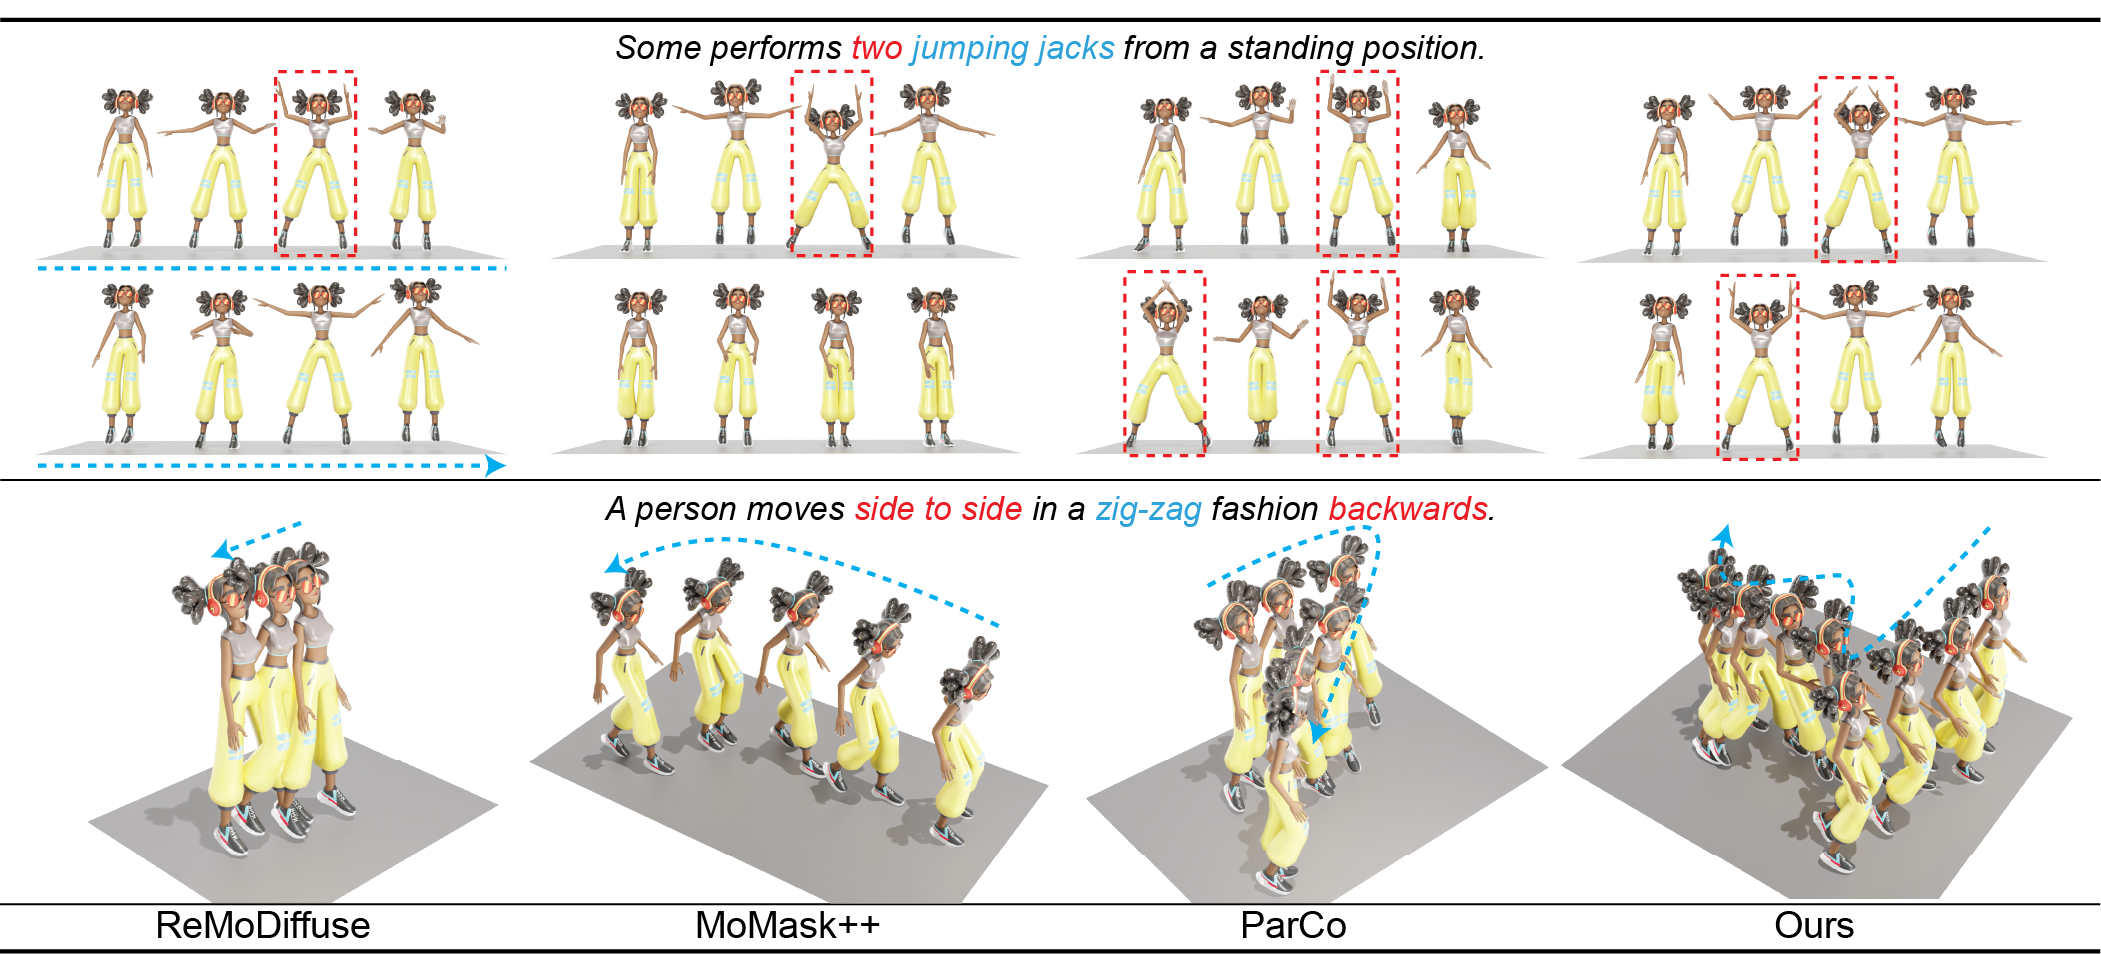
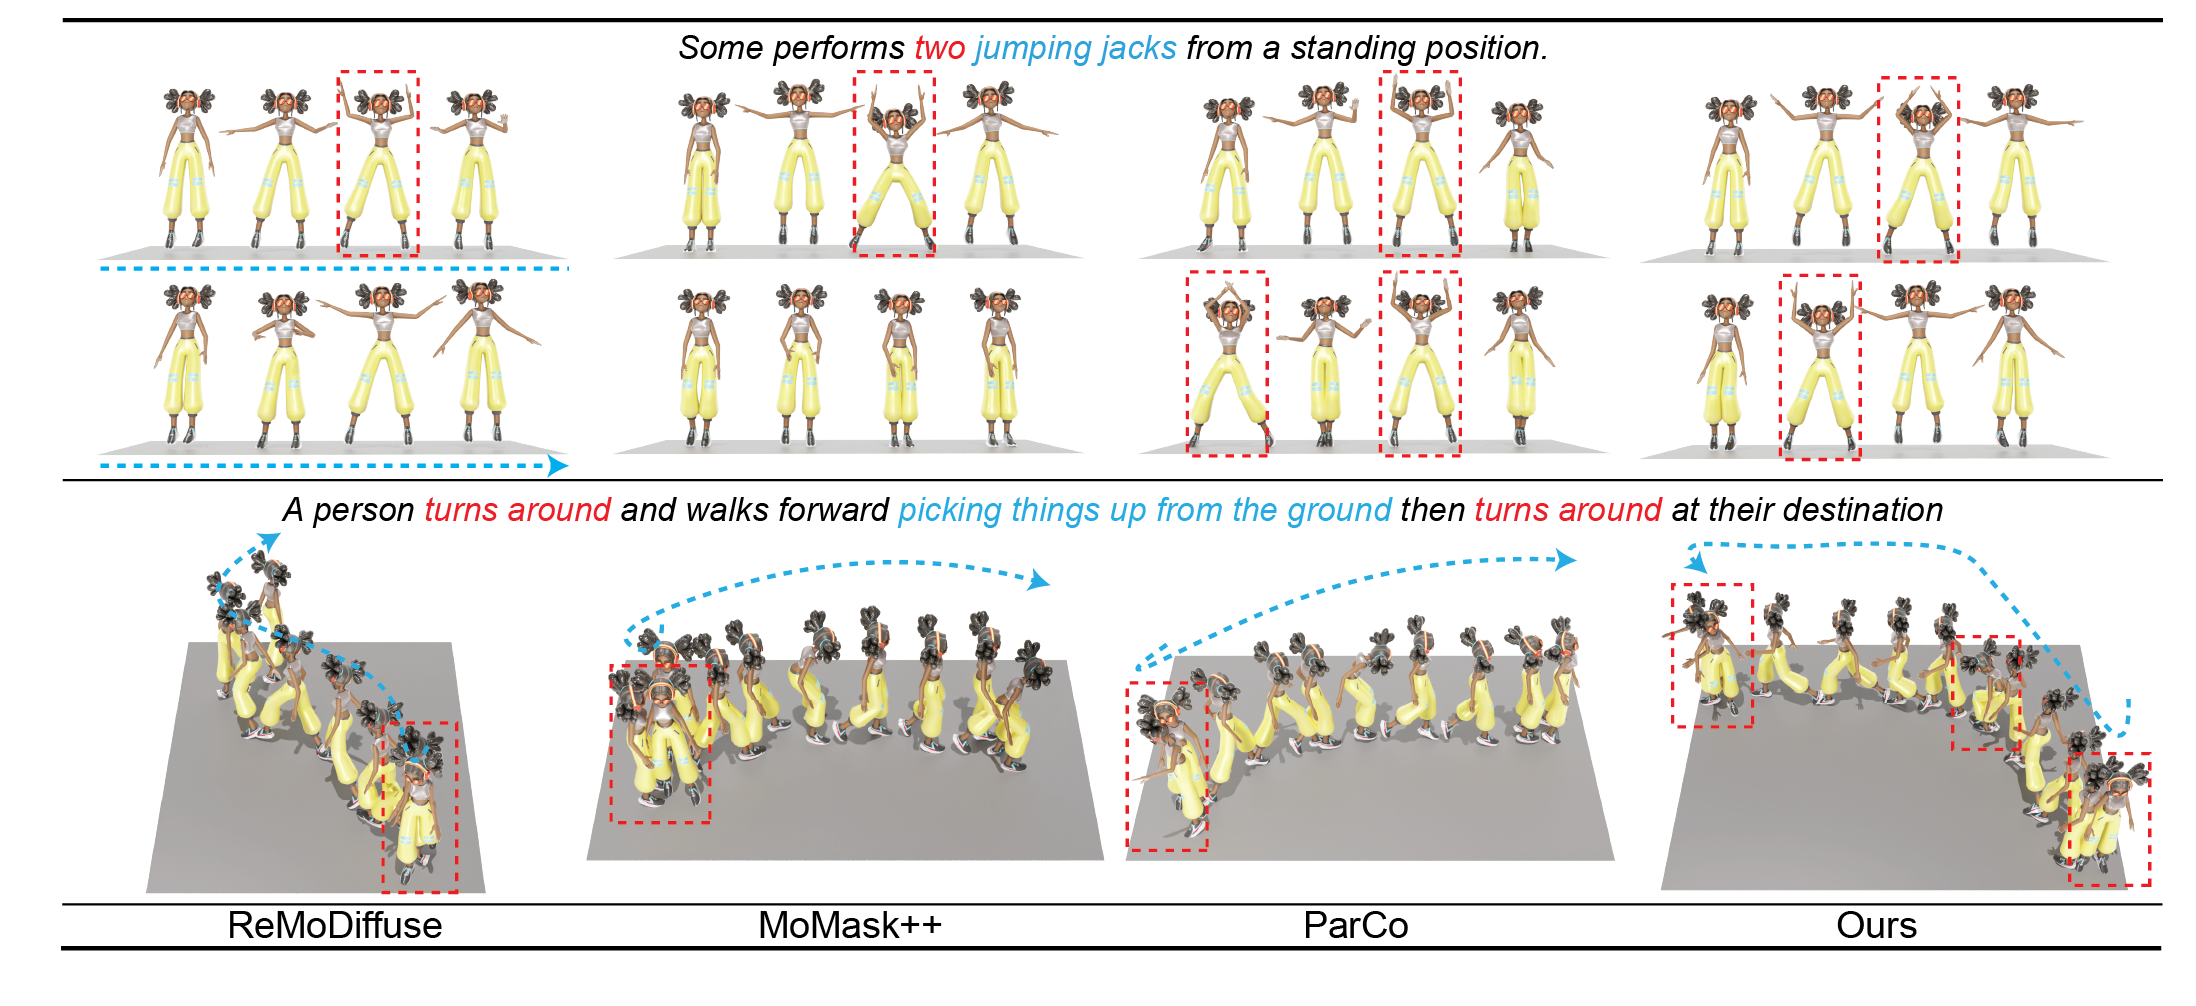
update moscale

diff --git a/MoScale/index.html b/MoScale/index.html
@@ -102,13 +102,11 @@
   <div class="container is-max-desktop">
     <div class="hero-body">
       <img id="teaser"
-     src="./static/images/method.png"
+     src="./static/images/teaser-latest-web.png"
      alt="teaser figure"
      style="max-width: 100%; width: 100%; height:auto; display:block; position:relative; left:50%; transform:translateX(-50%);">
-      <!-- <h2>
-        MoScale accurately captures global semantic structure in text descriptions, such as two jumping jacks and backward zigzag, where prior diffusion(ReMoDiffuse), masked-transformer(MoMask++), and next-token autoregressive models(ParCo) fail.
-        Its next-scale autoregressive design with hierarchical causality enables MoScale to preserve these long-range semantics while maintaining realistic motion.
-      </h2> -->
+      <h2>
+        MoScale accurately captures global semantic structure in text descriptions, such as two jumping jacks and sequential actions including turn around, pick things up, and turn around, where prior methods fail to align. Our next-scale autoregressive design with hierarchical causality enables MoScale to preserve these long-range semantics while maintaining realistic motion.</h2>
     </div>
   </div>
 </section>
@@ -176,13 +174,9 @@
         </div>
 
         <div class="content has-text-justified">
-          <!-- <p>
-            Below, we present qualitative results for text-to-motion generation, including comparisons with prior methods,
-            as well as zero-shot conditional and unconditional motion inpainting, outpainting, editing, and continuous motion generation.
-          </p> -->
           <p>
             Below, we present qualitative results for text-to-motion generation, including comparisons with prior methods,
-            as well as zero-shot continuous motion generation.
+            as well as zero-shot conditional and unconditional motion inpainting, outpainting, editing, and continuous motion generation.
           </p>
           <p>
             Note: We follow the standard visualization pipeline, using the SMPL fitting pipeline in MLD [1], as adopted in other text-to-motion works.
@@ -437,13 +431,257 @@
         </div>
 
 
-        <!-- Zero-Shot Continuous Motion Generation -->
-        <h3 class="title is-4">Zero-Shot Continuous Motion Generation</h3>
+        <!-- Zero-Shot Conditional Motion In/Outpainting and Editing -->
+        <h3 class="title is-4">Zero-Shot Conditional Motion In/Outpainting and Editing</h3>
 
         <div class="content has-text-justified">
           <p>
-            We also demonstrate that MoScale can effectively perform zero-shot continuous motion generation by
-            autoregressively generating motion with progressively provided text descriptions.
+            We provide qualitative results for zero-shot text-conditioned motion inpainting, outpainting, and editing, including comparisons with MoMask and BAMM.
+            We highlight the painted/edited regions with <span class="gen-smpl-blue-new">blue</span> colors. To better compare with the original motion in the unedited regions,
+            we also render the original motion in <span class="gen-smpl-blue-new">blue</span> at the corresponding timestamps where edits/paintings are applied.
+            We use <span class="gen-smpl-orange">orange</span> to represent unedited regions.
+          </p>
+
+          <p>
+            Note: We follow prior work and represent the motion with a sequence of root (pelvis) velocities, while the remaining joints are encoded as their 3D positions in the root’s
+            local coordinate system. Under this representation, preserving the unedited regions means keeping the root velocity sequence and local joint positions identical in those frames.
+            As a result, the character exhibits the same motion pattern (how it moves and poses over time) in those segments,
+            even though its absolute global positions may change if earlier parts of the motion are changed.
+          </p>
+        </div>
+
+        <!-- Method names row -->
+        <div class="columns is-multiline is-centered">
+          <div class="column is-one-quarter">
+            <p class="method-name">Original Motion</p>
+          </div>
+          <div class="column is-one-quarter">
+            <p class="method-name">Ours</p>
+          </div>
+          <div class="column is-one-quarter">
+            <p class="method-name">BAMM</p>
+          </div>
+          <div class="column is-one-quarter">
+            <p class="method-name">MoMask</p>
+          </div>
+        </div>
+
+        <!-- Inpainting row -->
+        <div class="columns is-multiline is-centered">
+          <div class="column is-full">
+            <p class="row-caption">
+              "Inpainting: The figure looks like it is picking something up and <span class="deepblue">raising it above its head</span> <span class="deepred">twice</span>."
+            </p>
+          </div>
+
+          <div class="column is-one-quarter has-text-centered">
+            <figure>
+              <video controls autoplay muted loop src="assets/inpaint/moscale-inpaint-gt.mp4" class="motion-video"></video>
+            </figure>
+          </div>
+          <div class="column is-one-quarter has-text-centered">
+            <figure>
+              <video controls autoplay muted loop src="assets/inpaint/moscale-inpaint.mp4" class="motion-video"></video>
+            </figure>
+          </div>
+          <div class="column is-one-quarter has-text-centered">
+            <figure>
+              <video controls autoplay muted loop src="assets/inpaint/bamm_inpaint.mp4" class="motion-video"></video>
+            </figure>
+          </div>
+          <div class="column is-one-quarter has-text-centered">
+            <figure>
+              <video controls autoplay muted loop src="assets/inpaint/momask-inpaint.mp4" class="motion-video"></video>
+            </figure>
+          </div>
+        </div>
+
+        <!-- Outpainting row -->
+        <div class="columns is-multiline is-centered">
+          <div class="column is-full">
+            <p class="row-caption">
+              "Outpainting: <span class="deepblue">Lowering arms from shoulder height to waist</span> then bending arms 90 degrees forward and rotating circular."
+            </p>
+          </div>
+
+          <div class="column is-one-quarter has-text-centered">
+            <figure>
+              <video controls autoplay muted loop src="assets/inpaint/moscale_outpaint_gt.mp4" class="motion-video"></video>
+            </figure>
+          </div>
+          <div class="column is-one-quarter has-text-centered">
+            <figure>
+              <video controls autoplay muted loop src="assets/inpaint/moscale_outpaint.mp4" class="motion-video"></video>
+            </figure>
+          </div>
+          <div class="column is-one-quarter has-text-centered">
+            <figure>
+              <video controls autoplay muted loop src="assets/inpaint/bamm_outpaint.mp4" class="motion-video"></video>
+            </figure>
+          </div>
+          <div class="column is-one-quarter has-text-centered">
+            <figure>
+              <video controls autoplay muted loop src="assets/inpaint/momask_outpaint.mp4" class="motion-video"></video>
+            </figure>
+          </div>
+        </div>
+
+        <!-- Editing row 1 -->
+        <div class="columns is-multiline is-centered">
+          <div class="column is-full">
+            <p class="row-caption">
+              "Editing: A person walks forward and then <span class="deepblue">waves the hand to the end</span>."
+            </p>
+          </div>
+
+          <div class="column is-one-quarter has-text-centered">
+            <figure>
+              <video controls autoplay muted loop src="assets/edit/ours_walk_wave_original_mesh.mp4" class="motion-video"></video>
+            </figure>
+          </div>
+          <div class="column is-one-quarter has-text-centered">
+            <figure>
+              <video controls autoplay muted loop src="assets/edit/ours_walk_wave_mesh.mp4" class="motion-video"></video>
+            </figure>
+          </div>
+          <div class="column is-one-quarter has-text-centered">
+            <figure>
+              <video controls autoplay muted loop src="assets/edit/bamm_walk_wave_mesh.mp4" class="motion-video"></video>
+            </figure>
+          </div>
+          <div class="column is-one-quarter has-text-centered">
+            <figure>
+              <video controls autoplay muted loop src="assets/edit/momask_walk_wave_mesh.mp4" class="motion-video"></video>
+            </figure>
+          </div>
+        </div>
+
+        <!-- Editing row 2 -->
+        <div class="columns is-multiline is-centered">
+          <div class="column is-full">
+            <p class="row-caption">
+              "Editing: A person <span class="deepblue">keeps running forward</span>. (<span class="deepred">from 40 frames to 176 frames</span>)"
+            </p>
+          </div>
+
+          <div class="column is-one-quarter has-text-centered">
+            <figure>
+              <video controls autoplay muted loop src="assets/edit/original_runs_all_mesh.mp4" class="motion-video"></video>
+            </figure>
+          </div>
+          <div class="column is-one-quarter has-text-centered">
+            <figure>
+              <video controls autoplay muted loop src="assets/edit/ours_runs_all_mesh.mp4" class="motion-video"></video>
+            </figure>
+          </div>
+          <div class="column is-one-quarter has-text-centered">
+            <figure>
+              <video controls autoplay muted loop src="assets/edit/bamm_runs_all_mesh.mp4" class="motion-video"></video>
+            </figure>
+          </div>
+          <div class="column is-one-quarter has-text-centered">
+            <figure>
+              <video controls autoplay muted loop src="assets/edit/momask_runs_all_mesh.mp4" class="motion-video"></video>
+            </figure>
+          </div>
+        </div>
+
+        <div class="content has-text-justified">
+          <p>
+            Our method again shows better alignment with the text instructions, and our editing can also generalize well to the change in motion length (e.g., the last example).
+            Moreover, compared to other methods, MoScale better preserves the unedited regions of the original motion, producing smoother and more natural transitions between the edited and unedited segments.
+          </p>
+        </div>
+
+        <!-- Zero-Shot Unconditional Motion In/Outpainting -->
+        <h3 class="title is-4">Zero-Shot Unconditional Motion In/Outpainting</h3>
+
+        <div class="content has-text-justified">
+          <p>
+            We show that MoScale can also perform zero-shot unconditional motion inpainting and outpainting.
+          </p>
+        </div>
+
+        <!-- Method names row -->
+        <div class="columns is-multiline is-centered">
+          <div class="column is-one-quarter">
+            <p class="method-name">Original Motion</p>
+          </div>
+          <div class="column is-one-quarter">
+            <p class="method-name">Generated Instance 1</p>
+          </div>
+          <div class="column is-one-quarter">
+            <p class="method-name">Generated Instance 2</p>
+          </div>
+          <div class="column is-one-quarter">
+            <p class="method-name">Generated Instance 3</p>
+          </div>
+        </div>
+
+        <!-- Unconditional inpainting row -->
+        <div class="columns is-multiline is-centered">
+          <div class="column is-full">
+            <p class="row-caption">
+              "Unconditional Inpainting"
+            </p>
+          </div>
+
+          <div class="column is-one-quarter has-text-centered">
+            <figure>
+              <video controls autoplay muted loop src="assets/uncond_inoutpaint/sample0_gt.mp4" class="motion-video"></video>
+            </figure>
+          </div>
+          <div class="column is-one-quarter has-text-centered">
+            <figure>
+              <video controls autoplay muted loop src="assets/uncond_inoutpaint/sample0_repeat0.mp4" class="motion-video"></video>
+            </figure>
+          </div>
+          <div class="column is-one-quarter has-text-centered">
+            <figure>
+              <video controls autoplay muted loop src="assets/uncond_inoutpaint/sample0_repeat1.mp4" class="motion-video"></video>
+            </figure>
+          </div>
+          <div class="column is-one-quarter has-text-centered">
+            <figure>
+              <video controls autoplay muted loop src="assets/uncond_inoutpaint/sample0_repeat2.mp4" class="motion-video"></video>
+            </figure>
+          </div>
+        </div>
+
+        <!-- Unconditional outpainting row -->
+        <div class="columns is-multiline is-centered">
+          <div class="column is-full">
+            <p class="row-caption">
+              "Unconditional Outpainting"
+            </p>
+          </div>
+
+          <div class="column is-one-quarter has-text-centered">
+            <figure>
+              <video controls autoplay muted loop src="assets/uncond_inoutpaint/outpaint_gt.mp4" class="motion-video"></video>
+            </figure>
+          </div>
+          <div class="column is-one-quarter has-text-centered">
+            <figure>
+              <video controls autoplay muted loop src="assets/uncond_inoutpaint/outpaint_repeat0_mesh.mp4" class="motion-video"></video>
+            </figure>
+          </div>
+          <div class="column is-one-quarter has-text-centered">
+            <figure>
+              <video controls autoplay muted loop src="assets/uncond_inoutpaint/outpaint_repeat1_mesh.mp4" class="motion-video"></video>
+            </figure>
+          </div>
+          <div class="column is-one-quarter has-text-centered">
+            <figure>
+              <video controls autoplay muted loop src="assets/uncond_inoutpaint/outpaint_repeat2_mesh.mp4" class="motion-video"></video>
+            </figure>
+          </div>
+        </div>
+
+        <div class="content has-text-justified">
+          <p>
+            Our method is able to generate diverse and plausible motion completions for both inpainting and outpainting tasks,
+            while maintaining coherence with the existing motion segments.
           </p>
         </div>
 
